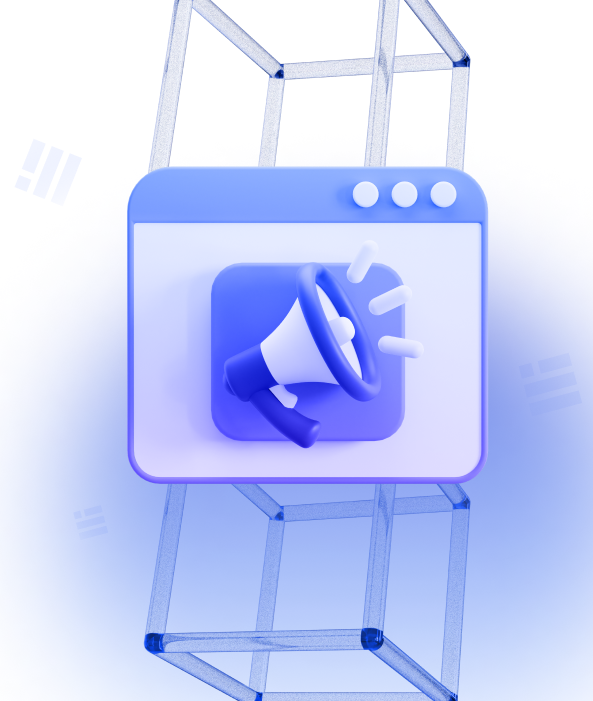
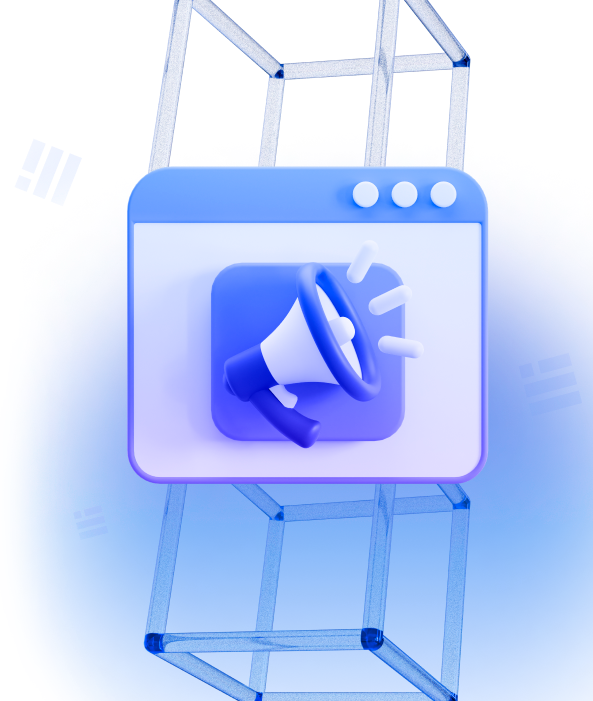
Refactor

diff --git a/src/components/HomePage/MainSection/MainHomeSection.scss b/src/components/HomePage/MainSection/MainHomeSection.scss
@@ -51,12 +51,21 @@
     }
 }
 
+@media (min-width: 2200px) {
+    .main-home-section{
+        background-repeat: no-repeat;
+        background-size: 122% 111%;
+        background-position: -112px 9px;
+        padding-bottom: 1028px;
+    }
+}
+
 @media (max-width: 1400px) {
     .main-home-section{
         background-image: url('../../../assets/images/backgrounds/home-background-tablet.png');
-        background-size: 100% 130%;
-        background-position: initial;
-        padding-bottom: 554px;
+        background-size: 100% 116%;
+        background-position: inherit;
+        padding-bottom: 605px;
 
         &__content{
             margin-right: 50px;

diff --git a/src/components/Landing/FaqSection/FaqSection.jsx b/src/components/Landing/FaqSection/FaqSection.jsx
@@ -37,7 +37,7 @@ const FaqSection = () => {
                 </Accordion.Body>
             </Accordion.Item>
             <Accordion.Item eventKey="4">
-                <Accordion.Header>КWhat is the role of the smart contract?</Accordion.Header>
+                <Accordion.Header>What is the role of the smart contract?</Accordion.Header>
                 <Accordion.Body>
                     A smart contract coordinates and distributes transactions and activates your tiers. It enables all processes on the platform to happen automatically.
                 </Accordion.Body>

diff --git a/src/components/Landing/LandingFooter/LandingFooter.scss b/src/components/Landing/LandingFooter/LandingFooter.scss
@@ -162,7 +162,7 @@
                 display: flex;
                 flex-direction: column;
 
-                a{
+                a, span{
                     padding: 24px 0px;
                     margin-left: 0;
                     border-bottom: 1px solid rgba(255, 255, 255, 0.15);
